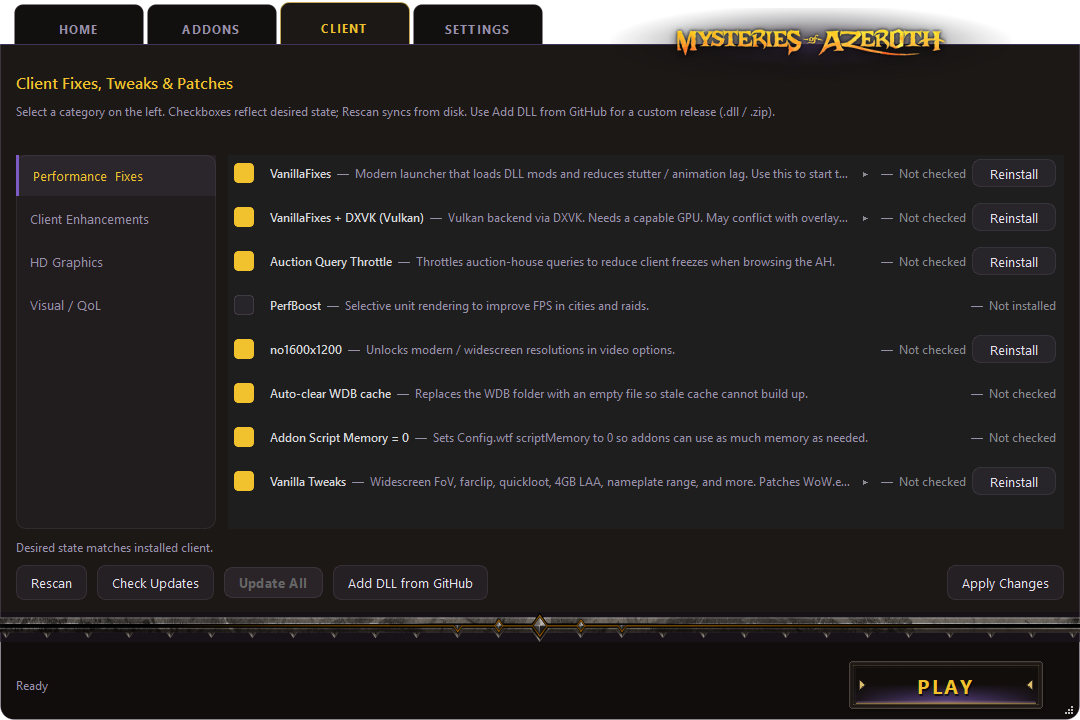
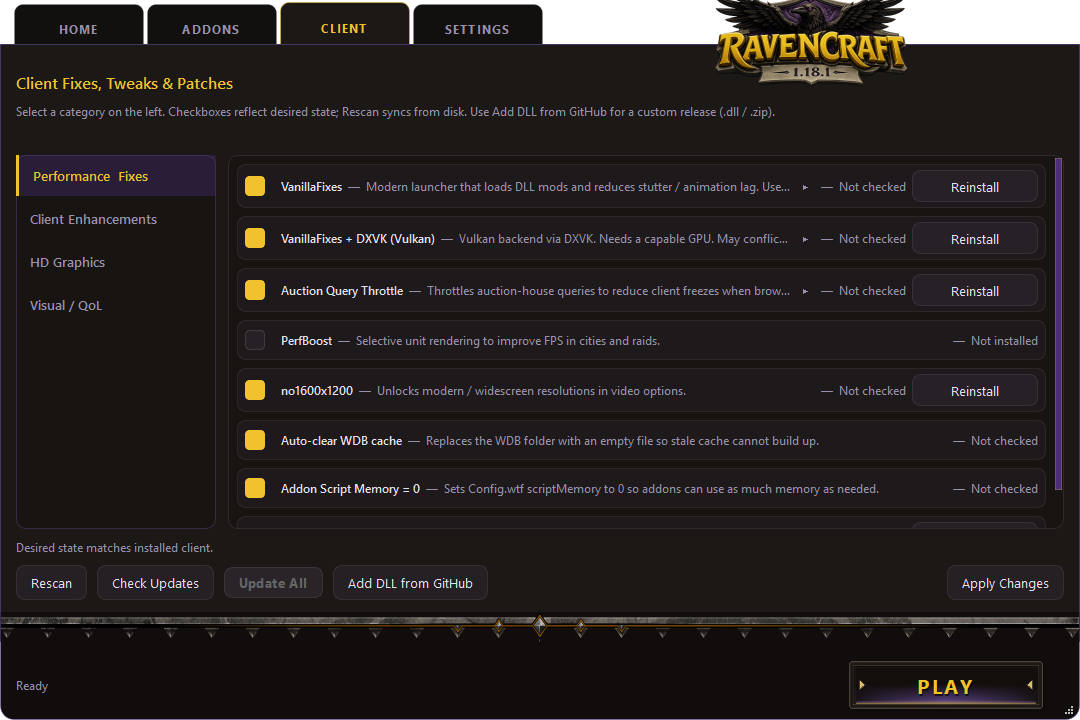
Refresh v1.0.13 README screenshots and DoiteAuras catalog blurb.
Capture current HOME talent art / logo layout, themed Addons/Client/Settings, and clarify the DoiteAuras catalog entry.

diff --git a/tools/capture_screenshots.py b/tools/capture_screenshots.py
@@ -18,6 +18,9 @@ from ichalaunch.ui.widgets.dialogs import ThemedDialog
 
 OUT = ROOT / "docs" / "screenshots"
 PAGES = ("home", "addons", "client", "settings")
+# Allow talent art / overlays / countdown to settle before the first grab.
+_SETTLE_MS = 1800
+_PAGE_PAUSE_MS = 350
 
 
 def main() -> int:
@@ -34,37 +37,42 @@ def main() -> int:
     win.show()
     app.processEvents()
 
-    def finish() -> None:
-        for idx, name in enumerate(PAGES):
-            win._nav(idx)
+    def grab_pages(idx: int = 0) -> None:
+        if idx >= len(PAGES):
+            dlg = ThemedDialog(
+                win,
+                "Ready",
+                "Client path saved.\nThis is the RavenCraft-themed dialog style.",
+                kind="info",
+            )
+            dlg.show()
             app.processEvents()
-            # Let layout / countdown paint settle
+            dlg.adjustSize()
+            app.processEvents()
+            dlg_pix = dlg.grab()
+            dlg_path = OUT / "themed_dialog.png"
+            dlg_pix.save(str(dlg_path), "PNG")
+            print(f"Wrote {dlg_path}")
+            dlg.close()
+            win.close()
+            app.quit()
+            return
+
+        name = PAGES[idx]
+        win._nav(idx)
+        app.processEvents()
+
+        def snap() -> None:
             app.processEvents()
             pix = win.grab()
             dest = OUT / f"{name}.png"
             pix.save(str(dest), "PNG")
             print(f"Wrote {dest}")
+            grab_pages(idx + 1)
 
-        dlg = ThemedDialog(
-            win,
-            "Ready",
-            "Client path saved.\nThis is the RavenCraft-themed dialog style.",
-            kind="info",
-        )
-        dlg.show()
-        app.processEvents()
-        dlg.adjustSize()
-        app.processEvents()
-        dlg_pix = dlg.grab()
-        dlg_path = OUT / "themed_dialog.png"
-        dlg_pix.save(str(dlg_path), "PNG")
-        print(f"Wrote {dlg_path}")
-        dlg.close()
+        QTimer.singleShot(_PAGE_PAUSE_MS, snap)
 
-        win.close()
-        app.quit()
-
-    QTimer.singleShot(400, finish)
+    QTimer.singleShot(_SETTLE_MS, grab_pages)
     return app.exec()
 
 
